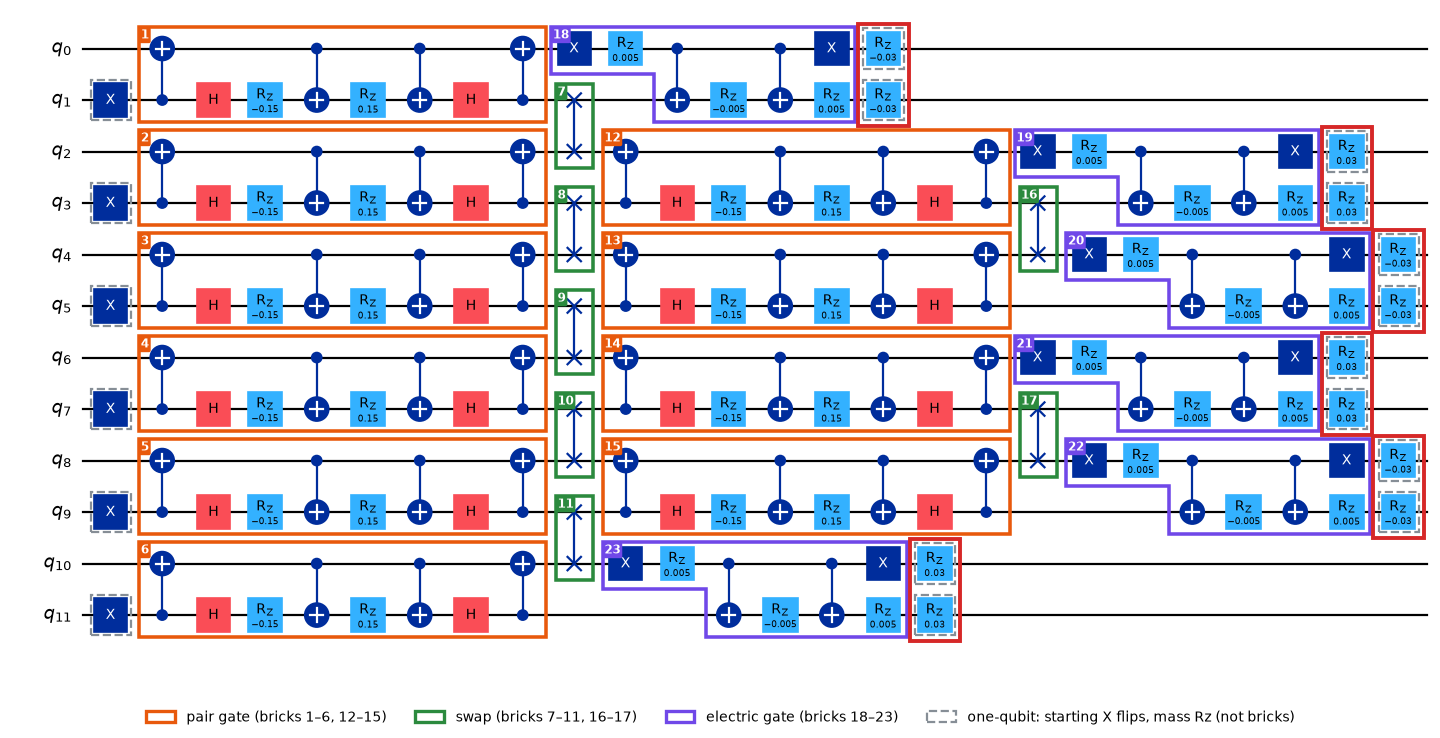
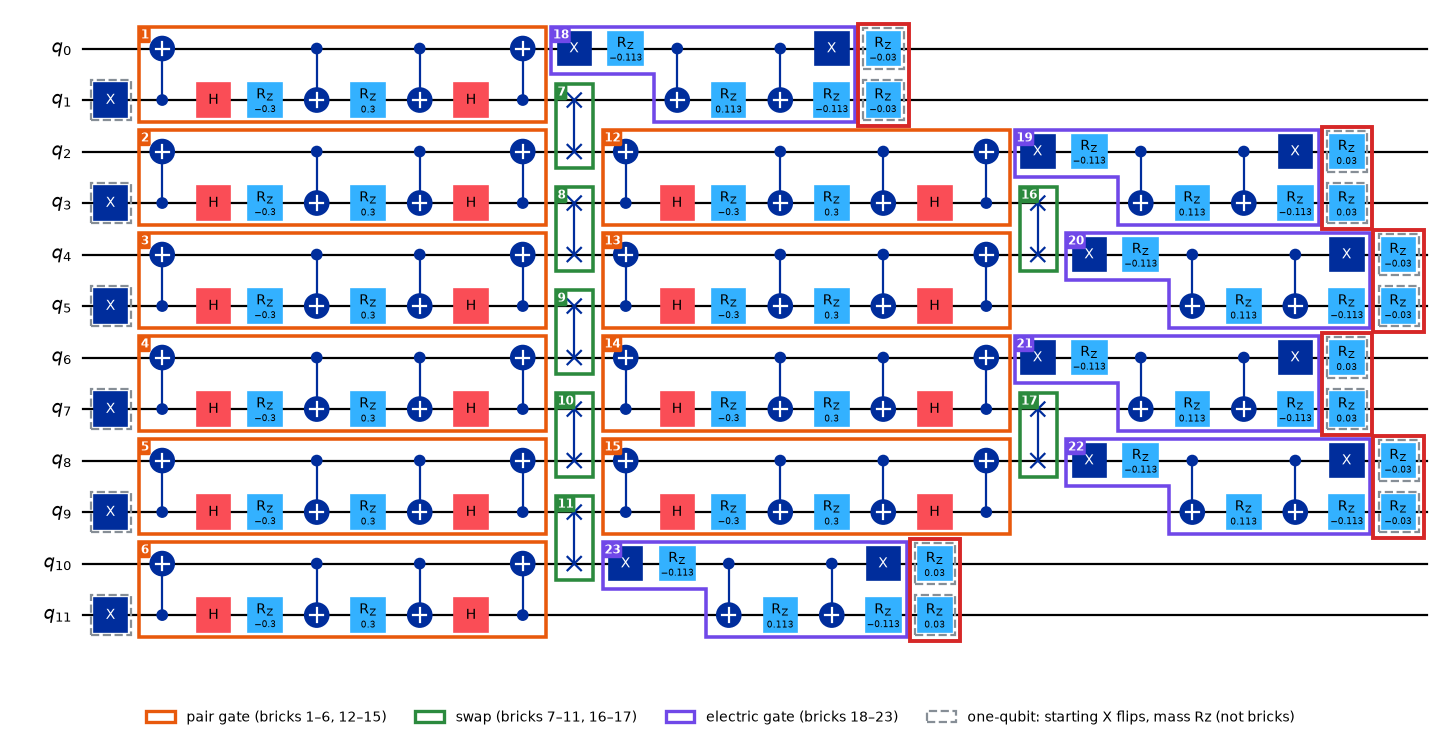
Learn: dated status pages (16.10 and 22.10.2026) with a status index; brickwork overview matched to the current circuit; 12-qubit results (11 steps, 5-step start)

diff --git a/learn/status-2026-10-22.html b/learn/status-2026-10-22.html
@@ -1,0 +1,132 @@
+<!DOCTYPE html>
+<html lang="en">
+<head>
+<meta charset="UTF-8">
+<meta name="viewport" content="width=device-width, initial-scale=1.0">
+<title>Status 22.10.2026</title>
+<link rel="stylesheet" href="https://fonts.googleapis.com/css2?family=IBM+Plex+Sans:wght@400;500;600;700&family=IBM+Plex+Mono:wght@400;500;600&display=swap">
+<style>
+  :root{
+    --bg:#EEF1F0; --surface:#FFFFFF; --ink:#1B2229; --muted:#5B6570;
+    --border:#D3D9D7; --accent:#B5702A; --accent-soft:#F3E3CF;
+    --accent2:#2F7A72; --accent2-soft:#DCEEEB; --mono-bg:#F5F3EE;
+    --shadow:0 1px 2px rgba(20,24,29,.06), 0 8px 24px rgba(20,24,29,.05);
+  }
+  @media (prefers-color-scheme: dark){
+    :root:not([data-theme="light"]){
+      --bg:#14181D; --surface:#1B2129; --ink:#ECE9E1; --muted:#93A0AB;
+      --border:#2B333D; --accent:#E0A264; --accent-soft:#4A3320;
+      --accent2:#7FC0B8; --accent2-soft:#1D3733; --mono-bg:#10151A;
+      --shadow:0 1px 2px rgba(0,0,0,.4), 0 12px 30px rgba(0,0,0,.35);
+    }
+  }
+  :root[data-theme="dark"]{
+    --bg:#14181D; --surface:#1B2129; --ink:#ECE9E1; --muted:#93A0AB;
+    --border:#2B333D; --accent:#E0A264; --accent-soft:#4A3320;
+    --accent2:#7FC0B8; --accent2-soft:#1D3733; --mono-bg:#10151A;
+    --shadow:0 1px 2px rgba(0,0,0,.4), 0 12px 30px rgba(0,0,0,.35);
+  }
+  *{box-sizing:border-box;}
+  html,body{margin:0;}
+  body{background:var(--bg); color:var(--ink); font-family:'IBM Plex Sans',system-ui,sans-serif; padding:32px 16px 90px; line-height:1.6;}
+  a{color:var(--accent2);}
+  .eyebrow{font-family:'IBM Plex Mono',monospace; font-size:12px; letter-spacing:.12em; text-transform:uppercase; color:var(--muted); margin:0 0 8px;}
+  h1{font-size:clamp(26px,4vw,34px); margin:0 0 8px; font-weight:700; line-height:1.2;}
+  .sub{color:var(--muted); font-size:15.5px; max-width:68ch; margin:0;}
+  .panel{background:var(--surface); border:1px solid var(--border); border-radius:14px; padding:22px 24px; box-shadow:var(--shadow); display:flex; flex-direction:column; gap:12px;}
+  .panel h2{margin:0; font-size:20px;}
+  .panel p, .panel li{font-size:15px; max-width:72ch; margin:0;}
+  .panel ul{margin:0; padding-left:22px; display:flex; flex-direction:column; gap:6px;}
+  code{font-family:'IBM Plex Mono',monospace; font-size:.92em; background:var(--mono-bg); padding:1px 5px; border-radius:4px;}
+  .scroll{overflow-x:auto; max-width:100%;}
+  table.t{border-collapse:collapse; font-size:14.5px; font-variant-numeric:tabular-nums;}
+  table.t th, table.t td{border:1px solid var(--border); padding:7px 11px; text-align:left; vertical-align:top;}
+  table.t th{background:var(--mono-bg); font-weight:600;}
+  table.t td.n{font-family:'IBM Plex Mono',monospace; white-space:nowrap;}
+  table.t tr.hi td{background:var(--accent2-soft);}
+  .key{border-left:3px solid var(--accent2); background:var(--accent2-soft); padding:10px 14px; border-radius:0 8px 8px 0; font-size:15px; max-width:74ch;}
+  .warn{border-left:3px solid var(--accent); background:var(--accent-soft); padding:10px 14px; border-radius:0 8px 8px 0; font-size:15px; max-width:74ch;}
+  /* status navigation */
+  .layout{max-width:1080px; margin:0 auto; display:grid; grid-template-columns:200px minmax(0,1fr); gap:28px; align-items:start;}
+  .page{display:flex; flex-direction:column; gap:24px; min-width:0;}
+  nav.series{position:sticky; top:24px; background:var(--surface); border:1px solid var(--border); border-radius:14px; padding:16px; box-shadow:var(--shadow);}
+  nav.series .t{font-family:'IBM Plex Mono',monospace; font-size:11.5px; letter-spacing:.08em; text-transform:uppercase; color:var(--muted); margin:0 0 10px;}
+  nav.series ol{list-style:none; margin:0; padding:0; display:flex; flex-direction:column; gap:4px;}
+  nav.series li a{display:block; padding:7px 10px; border-radius:8px; font-size:14.5px; text-decoration:none; color:var(--ink); font-family:'IBM Plex Mono',monospace;}
+  nav.series li a:hover{background:var(--mono-bg);}
+  nav.series li a[aria-current="page"]{background:var(--accent2-soft); color:var(--accent2); font-weight:600;}
+  nav.series .home{display:block; margin-top:12px; font-size:13.5px;}
+  @media (max-width:820px){ .layout{grid-template-columns:1fr;} nav.series{position:static;} }
+</style>
+</head>
+<body>
+<div class="layout">
+<nav class="series" aria-label="Status updates">
+  <p class="t">Status updates</p>
+  <ol>
+    <li><a href="status-2026-10-22.html" aria-current="page">22.10.2026</a></li>
+    <li><a href="hadron-aqc-status.html">16.10.2026</a></li>
+  </ol>
+  <a class="home" href="status.html">All statuses</a>
+  <a class="home" href="index.html">← Learn index</a>
+</nav>
+<div class="page">
+
+<header>
+  <p class="eyebrow">Hadron circuit compression · status · 22.10.2026</p>
+  <h1>New circuit: 12 qubits done, 32 qubits running</h1>
+  <p class="sub">We moved to the group's current circuit files. Since the last meeting (<a href="hadron-aqc-status.html">16.10.2026</a>): what changed and where we are.</p>
+</header>
+
+<section class="panel">
+  <h2>1. What changed in the circuit</h2>
+  <div class="scroll">
+  <table class="t">
+    <tr><th></th><th>before</th><th>now</th></tr>
+    <tr><td>kinetic strength (pair gate)</td><td class="n">0.15</td><td class="n">0.30</td></tr>
+    <tr><td>electric strength</td><td class="n">−0.01</td><td class="n">−0.226125</td></tr>
+    <tr><td>mass signs (mass 0.03)</td><td>per qubit: − + − + …</td><td>per site: − − + + …</td></tr>
+    <tr><td>hadron start</td><td>2 flipped qubits in the middle</td><td>4: both qubits of the two centre sites</td></tr>
+    <tr><td>target (full circuit)</td><td>20 Trotter steps</td><td>T11 file: 11 steps</td></tr>
+    <tr><td>start for training (cheap circuit)</td><td>4 steps</td><td>5 steps</td></tr>
+  </table>
+  </div>
+  <p>Our code now builds exactly the group's files: the circuit from <code>construct_circuit</code> matches all 22 QASM files (T1–T11, vacuum and meson) gate for gate.</p>
+  <p>Why the mass sign matters: with per-qubit signs, every term got the same phase, so the mass did nothing. With per-site signs, the phase depends on where the particles are. See <a href="mass-term.html">Mass term</a>.</p>
+</section>
+
+<section class="panel">
+  <h2>2. Where we are</h2>
+  <div class="scroll">
+  <table class="t">
+    <tr><th>qubits</th><th>state</th><th>CNOTs</th><th>two-qubit depth</th><th>fidelity</th><th>angles</th><th>time</th></tr>
+    <tr class="hi"><td>12</td><td>vacuum</td><td class="n">673 → 347</td><td class="n">162 → 82</td><td class="n">0.9957</td><td class="n">1,167</td><td class="n">0.4 min</td></tr>
+    <tr class="hi"><td>12</td><td>meson</td><td class="n">673 → 351</td><td class="n">162 → 82</td><td class="n">0.9964</td><td class="n">1,167</td><td class="n">0.5 min</td></tr>
+    <tr><td>32</td><td>vacuum, meson</td><td colspan="5">running on the Mac since 10:07 (see below)</td></tr>
+    <tr><td>40, 120</td><td>both</td><td colspan="5">not started</td></tr>
+  </table>
+  </div>
+  <div class="warn"><strong>The new circuit is harder to compress.</strong> 12 qubits: 1.9× fewer CNOTs at 0.996. The old circuit gave 4.4× at 0.9999. Stronger hopping and a stronger field build more entanglement, so the 5-step start has more to catch up.</div>
+  <p><strong>32-qubit run so far</strong> (target bond 1024, jax with the cotengra planner):</p>
+  <ul>
+    <li>✅ vacuum target built in 5.7 min; count of filled seats 16 (correct); 1.6% of the norm lost to the bond-1024 cut</li>
+    <li>✅ cheap 5-step circuit: 3,412 angles, fidelity 0.29 before training</li>
+    <li>⬜ training (vacuum, then meson): about 1–2 h</li>
+  </ul>
+</section>
+
+<section class="panel">
+  <h2>3. Next steps</h2>
+  <ul>
+    <li>⬜ Finish 32 qubits; compare compression and fidelity with 12 qubits.</li>
+    <li>⬜ 40 qubits on the Mac, then 120 qubits on the cluster (longer planner time).</li>
+    <li>⬜ If fidelity falls short: a 6- or 7-step start (more CNOTs, better fidelity).</li>
+    <li>⬜ Open question: the T11 file has 11 steps; is that the "10 Trotter steps"?</li>
+  </ul>
+  <div class="key">Setup now: script <code>scripts/run_hadron_aqc.py</code>, target T11 (11 steps), 5-step start, jax gradient with the cotengra planner during training.</div>
+</section>
+
+</div>
+</div>
+</body>
+</html>

diff --git a/learn/brickwork-step.html b/learn/brickwork-step.html
@@ -85,13 +85,13 @@
 <header>
   <p class="eyebrow">Learn · hadron circuit · brickwork, part 0</p>
   <h1>One Trotter step: the brickwork</h1>
-  <p class="sub">Map of the whole step before the gate-by-gate pages. 12 qubits.</p>
+  <p class="sub">Map of the whole step before the gate-by-gate pages. 12 qubits, current circuit: kinetic 0.30, electric −0.226125, mass 0.03 (sign per site).</p>
 </header>
 
 <section class="panel">
   <h2>1. The whole step</h2>
   <div class="fig"><img src="brickwork-full.png" alt="One Trotter step of the 12-qubit hadron circuit, bricks numbered and coloured by kind"></div>
-  <p class="cap">One Trotter step, 6 sites = 12 qubits, mass signs corrected (per site). Drawn by <code>hadron-aqc/notebooks/draw_brickwork.py</code> straight from <code>construct_circuit</code>; the earlier picture is <code>brickwork_annotated_old.png</code>. The full circuit repeats this step 20 times.</p>
+  <p class="cap">One Trotter step, 6 sites = 12 qubits, current values, vacuum start (the hadron start flips 4 different qubits in the middle). Drawn by <code>hadron-aqc/notebooks/draw_brickwork.py</code> straight from <code>construct_circuit</code>; the earlier picture is <code>brickwork_annotated_old.png</code>. The full circuit (the T11 file) repeats this step 11 times.</p>
   <p><strong>Order, left to right:</strong> starting X flips → pair gates (bricks 1–6) → SWAPs (7–11) → pair gates (12–15) → SWAPs (16–17) → electric gates (18–23) → mass Rz turns.</p>
 </section>
 
@@ -100,7 +100,7 @@
   <div class="scroll">
   <table class="t">
     <tr><th>gate</th><th>bricks</th><th>CNOTs each</th><th>changes bits?</th><th>what it does</th></tr>
-    <tr><td><a href="pair-gate.html">pair gate</a></td><td>1–6, 12–15</td><td>4</td><td><strong>yes</strong></td><td>a particle hops between neighbours (kinetic strength 0.15)</td></tr>
+    <tr><td><a href="pair-gate.html">pair gate</a></td><td>1–6, 12–15</td><td>4</td><td><strong>yes</strong></td><td>a particle hops between neighbours (kinetic strength 0.30)</td></tr>
     <tr><td><a href="swap.html">SWAP</a></td><td>7–11, 16–17</td><td>3</td><td>only moves them</td><td>brings new neighbours together for the next pair gates; no physics</td></tr>
     <tr><td><a href="electric-gate.html">electric gate</a></td><td>18–23</td><td>2</td><td>no, phase only</td><td>energy of the electric field (the string) on one site</td></tr>
     <tr><td><a href="mass-term.html">mass Rz</a></td><td>— (one-qubit)</td><td>0</td><td>no, phase only</td><td>energy cost of a particle on a site</td></tr>
@@ -111,13 +111,16 @@
 </section>
 
 <section class="panel">
-  <h2>3. What changed in the newer circuit files</h2>
+  <h2>3. What changed from the earlier circuit</h2>
   <ul>
+    <li>Pair-gate Rz values: ±0.15 → <strong>±0.3</strong> (kinetic 0.15 → 0.30).</li>
     <li>Electric Rz values: ±0.005 → <strong>±0.113</strong> (field 22× stronger).</li>
     <li>Mass signs: per qubit (− + − + …) → <strong>per site</strong> (− − + + …). See <a href="mass-term.html">Mass term</a>.</li>
     <li>Hadron starting state: 2 flipped qubits in the middle → 4.</li>
+    <li>Number of steps: 20 → <strong>11</strong>.</li>
     <li>Bricks, order and qubit pairs: unchanged.</li>
   </ul>
+  <p>The worked examples on the <a href="pair-gate.html">pair gate</a> and <a href="electric-gate.html">electric gate</a> pages use the earlier angles (0.15 and 0.005). Same gates, only the angles differ.</p>
 </section>
 
 </div>

diff --git a/learn/status.html b/learn/status.html
@@ -1,0 +1,47 @@
+<!DOCTYPE html>
+<html lang="en">
+<head>
+<meta charset="UTF-8">
+<meta name="viewport" content="width=device-width, initial-scale=1.0">
+<title>Status Updates</title>
+<link rel="stylesheet" href="https://fonts.googleapis.com/css2?family=IBM+Plex+Sans:wght@400;500;600;700&family=IBM+Plex+Mono:wght@400;500&display=swap">
+<style>
+  :root{ --bg:#EEF1F0; --surface:#FFFFFF; --ink:#1B2229; --muted:#5B6570; --border:#D3D9D7; --accent2:#2F7A72; }
+  @media (prefers-color-scheme: dark){
+    :root:not([data-theme="light"]){ --bg:#14181D; --surface:#1B2129; --ink:#ECE9E1; --muted:#93A0AB; --border:#2B333D; --accent2:#7FC0B8; }
+  }
+  :root[data-theme="dark"]{ --bg:#14181D; --surface:#1B2129; --ink:#ECE9E1; --muted:#93A0AB; --border:#2B333D; --accent2:#7FC0B8; }
+  *{box-sizing:border-box;}
+  html,body{margin:0;}
+  body{background:var(--bg); color:var(--ink); font-family:'IBM Plex Sans',system-ui,sans-serif; padding:32px 16px 80px; line-height:1.6;}
+  .page{max-width:760px; margin:0 auto; display:flex; flex-direction:column; gap:18px;}
+  .eyebrow{font-family:'IBM Plex Mono',monospace; font-size:12px; letter-spacing:.12em; text-transform:uppercase; color:var(--muted); margin:0;}
+  h1{margin:0; font-size:30px;}
+  a{color:var(--accent2);}
+  a.card{display:block; background:var(--surface); border:1px solid var(--border); border-radius:12px; padding:16px 20px; color:var(--ink); text-decoration:none;}
+  a.card:hover, a.card:focus-visible{border-color:var(--accent2);}
+  a.card h2{margin:0 0 4px; font-size:18px; color:var(--accent2);}
+  a.card p{margin:0; color:var(--muted); font-size:15px;}
+  .n{font-family:'IBM Plex Mono',monospace; font-size:12px; color:var(--muted);}
+</style>
+</head>
+<body>
+<div class="page">
+  <p class="eyebrow">Hadron circuit compression · status</p>
+  <h1>Status Updates</h1>
+  <p style="margin:0;color:var(--muted)">Newest first. <a href="index.html">← Learn index</a></p>
+
+  <a class="card" href="status-2026-10-22.html">
+    <span class="n">22.10.2026 · latest</span>
+    <h2>New circuit: 12 qubits done, 32 qubits running</h2>
+    <p>Moved to the group's current circuit files (stronger hopping and field, per-site mass signs, 4-qubit hadron start, 11-step target, 5-step start). 12 qubits: 673 → 347 CNOTs at 0.996.</p>
+  </a>
+
+  <a class="card" href="hadron-aqc-status.html">
+    <span class="n">16.10.2026</span>
+    <h2>Compressing the 120-qubit hadron circuit</h2>
+    <p>Old circuit, 20 steps. The RAM fix (cotengra planner), summary table from 12 to 120 qubits, how the method works, glossary.</p>
+  </a>
+</div>
+</body>
+</html>

diff --git a/learn/hadron-aqc-status.html b/learn/hadron-aqc-status.html
@@ -66,13 +66,34 @@
   dl.gl dt{font-weight:600;}
   dl.gl dd{margin:0; color:var(--ink);}
   @media (max-width:560px){ dl.gl{grid-template-columns:1fr;} dl.gl dd{margin-bottom:6px;} }
+  /* status navigation */
+  .layout{max-width:1140px; margin:0 auto; display:grid; grid-template-columns:200px minmax(0,1fr); gap:28px; align-items:start;}
+  .layout .page{margin:0; min-width:0;}
+  nav.series{position:sticky; top:24px; background:var(--surface); border:1px solid var(--border); border-radius:14px; padding:16px; box-shadow:var(--shadow);}
+  nav.series .t{font-family:'IBM Plex Mono',monospace; font-size:11.5px; letter-spacing:.08em; text-transform:uppercase; color:var(--muted); margin:0 0 10px;}
+  nav.series ol{list-style:none; margin:0; padding:0; display:flex; flex-direction:column; gap:4px;}
+  nav.series li a{display:block; padding:7px 10px; border-radius:8px; font-size:14.5px; text-decoration:none; color:var(--ink); font-family:'IBM Plex Mono',monospace;}
+  nav.series li a:hover{background:var(--mono-bg);}
+  nav.series li a[aria-current="page"]{background:var(--accent2-soft); color:var(--accent2); font-weight:600;}
+  nav.series .home{display:block; margin-top:12px; font-size:13.5px;}
+  @media (max-width:820px){ .layout{grid-template-columns:1fr;} nav.series{position:static;} }
 </style>
 </head>
 <body>
+<div class="layout">
+<nav class="series" aria-label="Status updates">
+  <p class="t">Status updates</p>
+  <ol>
+    <li><a href="status-2026-10-22.html">22.10.2026</a></li>
+    <li><a href="hadron-aqc-status.html" aria-current="page">16.10.2026</a></li>
+  </ol>
+  <a class="home" href="status.html">All statuses</a>
+  <a class="home" href="index.html">← Learn index</a>
+</nav>
 <div class="page">
 
 <header>
-  <p class="eyebrow">Learn · hadron circuit compression · status</p>
+  <p class="eyebrow">Hadron circuit compression · status · 16.10.2026 · old circuit (20 steps)</p>
   <h1>Compressing the 120-qubit hadron circuit with AQC-Tensor</h1>
   <p class="sub">Benchmark: the quantum-advantage-tracker instance <code>su2_hadron_dynamics_lsh_x_100_meson</code> and its vacuum <code>_SCV</code>: 60 sites, 120 qubits, 20 Trotter steps. Goal: a much shallower circuit that gives the same state.</p>
   <p class="back"><a href="index.html">← Back to the learn index</a></p>
@@ -302,6 +323,7 @@
   </dl>
 </section>
 
+</div>
 </div>
 </body>
 </html>

diff --git a/learn/index.html b/learn/index.html
@@ -30,10 +30,10 @@
   <h1>Learn Index</h1>
   <p style="margin:0;color:var(--muted)">Worked, by-hand explainers. Open any page and use its contents box to jump around.</p>
 
-  <a class="card" href="hadron-aqc-status.html">
-    <span class="n">Status · latest</span>
-    <h2>Compressing the 120-qubit hadron circuit</h2>
-    <p>Where the AQC-Tensor work stands: summary table (RAM, time, fidelity, CNOTs from 12 to 120 qubits), how the method works, status since the last meeting, next steps.</p>
+  <a class="card" href="status.html">
+    <span class="n">Status · latest 22.10.2026</span>
+    <h2>Hadron circuit compression: status updates</h2>
+    <p>Dated status pages, newest first. Latest: moved to the group's new circuit; 12 qubits done (673 → 347 CNOTs at 0.996), 32 qubits running.</p>
   </a>
 
   <a class="card" href="brickwork-step.html">

diff --git a/hadron-aqc/results/12q_11steps_5cheap_target64_training64_jax/summary.md b/hadron-aqc/results/12q_11steps_5cheap_target64_training64_jax/summary.md
@@ -1,0 +1,17 @@
+# 12q_11steps_5cheap_target64_training64_jax
+
+12 qubits (6 sites), 11 Trotter steps, 5-step cheap circuit, target max_bond=64, training max_bond=64, gradient=jax. Started 2026-10-22 09:58.
+
+| | vacuum | meson |
+|---|---|---|
+| target health: norm violation / count of filled seats | 0.0000 / 6.0000 (must be 6) | 0.0000 / 6.0000 (must be 6) |
+| angles | 1167 | 1167 |
+| fidelity reached in training (exact, jax) | **0.995666** | **0.996404** |
+| fidelity before → after training, both simulated at max_bond=64 | 0.8133 → 0.995677 | 0.8829 → 0.996415 |
+| training steps | 47 (converged) | 191 (converged) |
+| CNOTs (original → trained) | 673 → **347** | 673 → **351** |
+| two-qubit depth | 162 → **82** | 162 → **82** |
+| total depth | 383 → 276 | 383 → 309 |
+| fidelity of the transpiled circuit (at max_bond=64) | 0.995677 | 0.996416 |
+| recheck at max_bond=128 | 0.995677 | 0.996415 |
+| time | 0.4 min | 0.5 min |
